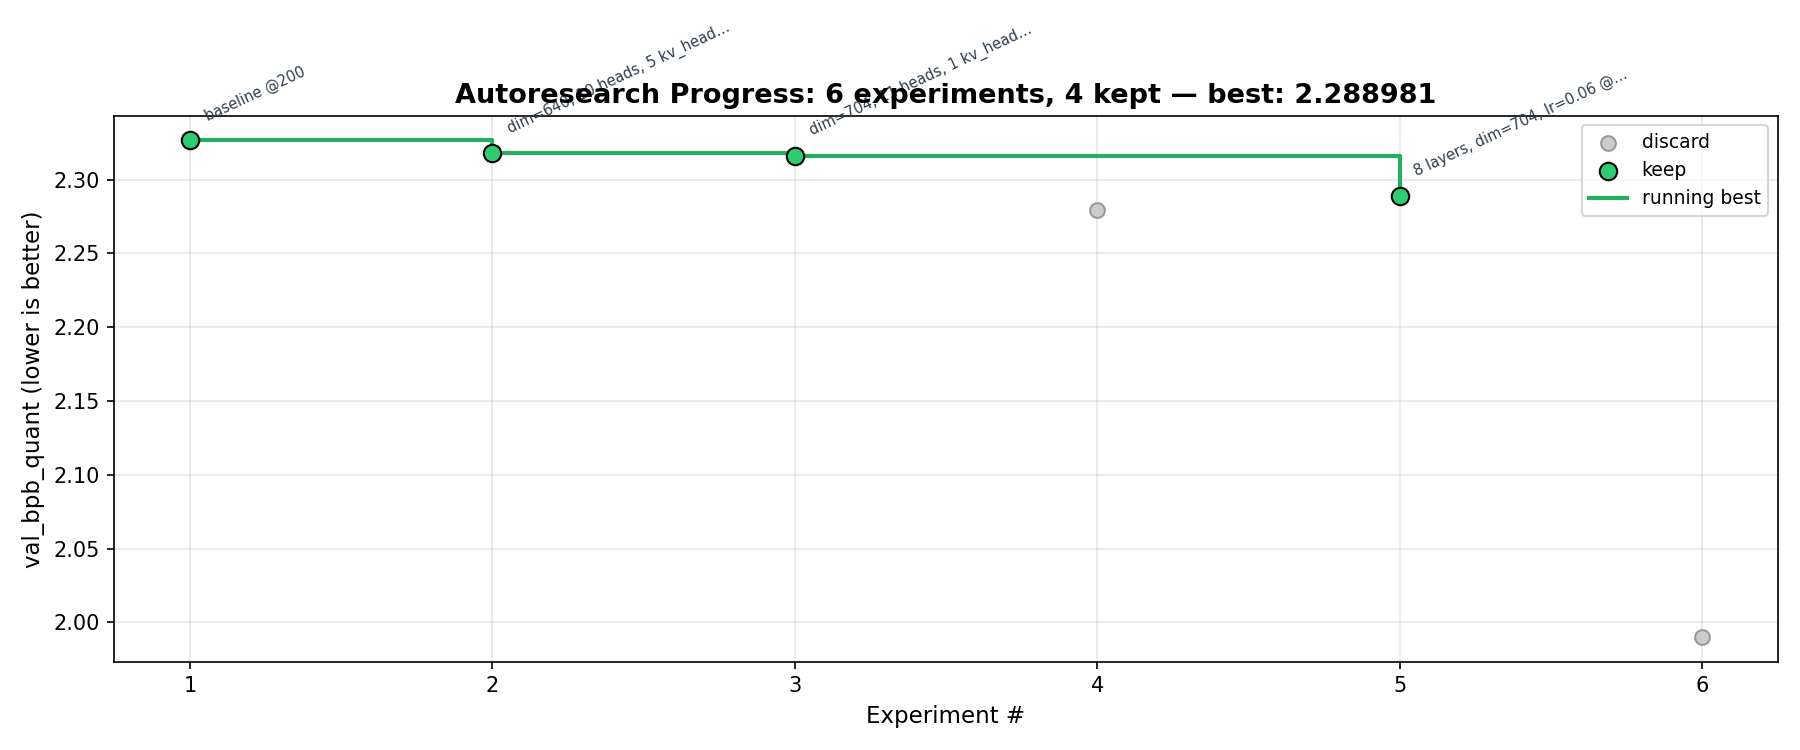
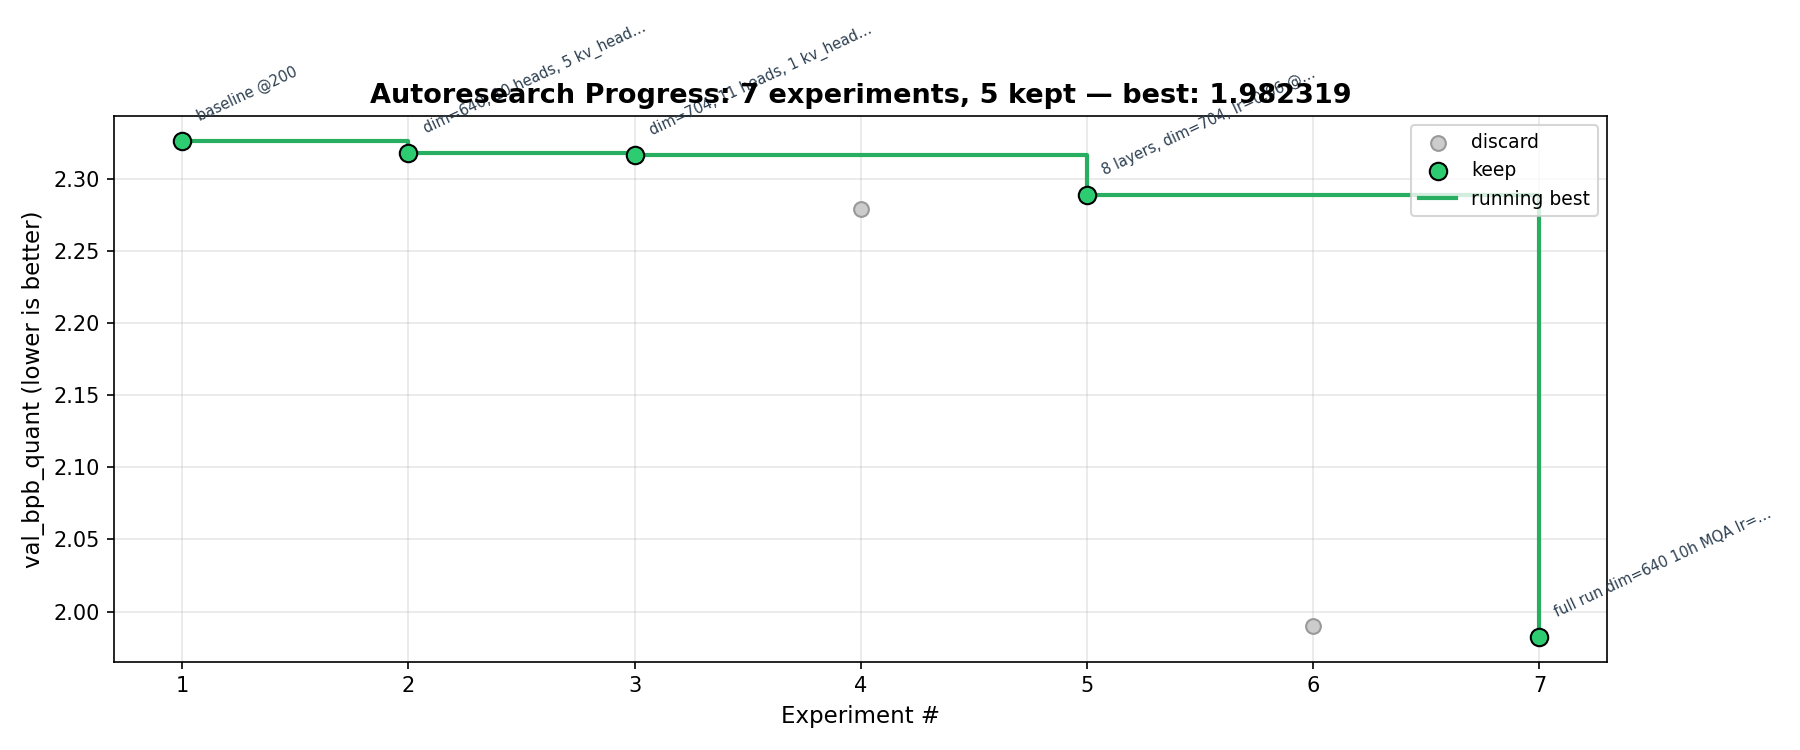
Update results: full run dim=640 MQA lr=0.06 → 1.982319 (new best)
Massive improvement from 2.288981 to 1.982319. Artifact 14.5MB (PASS).

diff --git a/README.md b/README.md
@@ -16,12 +16,14 @@ An AI agent autonomously iterates on a small GPT model, trying to minimize bits-
 | 4 | 57f53b3 | 200 | 2.279354 | 16.5 MB | discard | matrix_lr=0.06 (artifact FAIL) @200 |
 | 5 | 2daa918 | 200 | 2.288981 | 15.3 MB | keep | 8 layers, dim=704, lr=0.06 @200 |
 | 6 | 2c4cdf5 | 565 | 1.990023 | 17.3 MB | discard | full run dim=704 8L lr=0.08 (artifact FAIL) |
+| 7 | d9d6b95 | 649 | 1.982319 | 14.5 MB | keep | full run dim=640 10h MQA lr=0.06 |
 
-**Current best: 2.288981** (8 layers, dim=704, lr=0.06 @200)
+**Current best: 1.982319** (dim=640, 10 heads, MQA, lr=0.06, full run)
 
 ## Changelog
 
-- **#5** `2daa918` — 8 layers, dim=704, lr=0.06 @200 → **2.288981** (best)
+- **#7** `d9d6b95` — full run dim=640 10h MQA lr=0.06 → **1.982319** (best)
+- **#5** `2daa918` — 8 layers, dim=704, lr=0.06 @200 → **2.288981**
 - **#3** `63ee03b` — dim=704, 11 heads, 1 kv_head (MQA) @200 → **2.316331**
 - **#2** `973c47e` — dim=640, 10 heads, 5 kv_heads @200 → **2.317869**
 - **#1** `9326e13` — baseline @200 → **2.326520**
